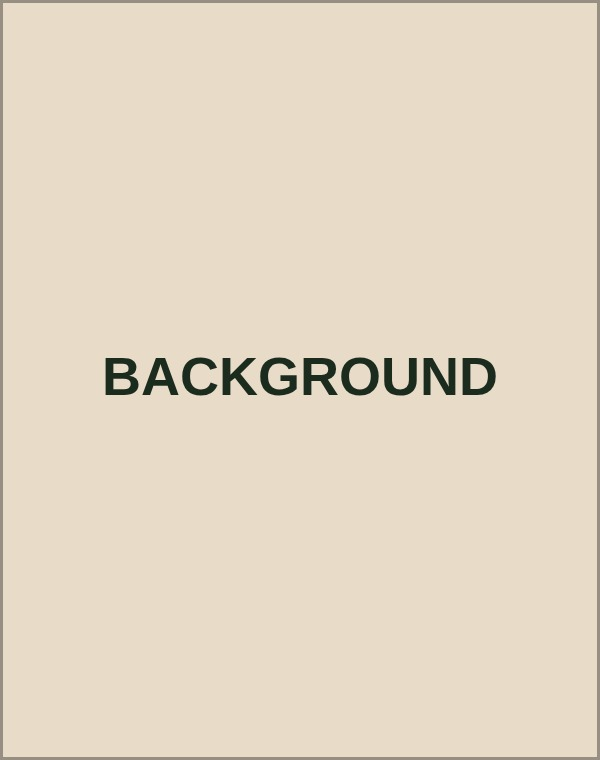
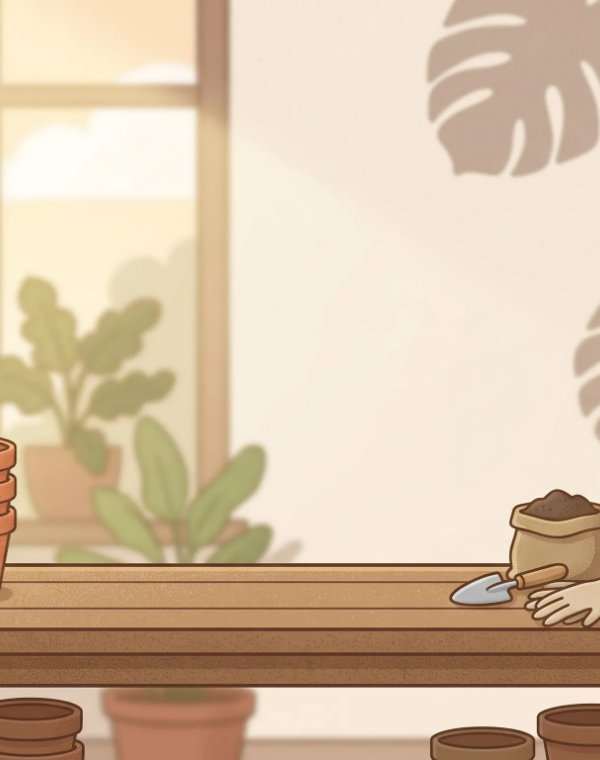
Wire in real Game 1 art assets + fix explosion-size selection bug
Real art uploaded by the user replaces the placeholder assets: 5
cactus growth stages, Pump/Bank buttons, coin/water HUD icons, and
the plant-shop background (cropped from the original landscape
composition to the game's portrait canvas, centered on the empty
tabletop area). Updated main.ts's asset imports to match the actual
uploaded filenames/extensions (cactus-stage-*.png and icon-*.png
instead of .webp, background.jpg instead of .webp).

Fixed a real bug this surfaced in BartGameEngine.pump(): on explosion,
advanceProgress() resets currentTrialPumps to 0 for the new trial
before the return statement's object literal reads
`this.currentTrialPumps`, so the returned currentPumps was always 0
regardless of the actual pump count that triggered the explosion.
This was silently dormant before (the old procedural explosion
drawing ignored the pump count entirely) but broke the new
stage-based small/big explosion selection outright -- every explosion
rendered "small". Fixed by capturing the value before advanceProgress()
runs. Verified with a headless 20-trial run: explosion pump counts now
vary realistically (1-31) instead of always reporting 0.

Two items still pending real art (kept on placeholders for now):
- explosion-small.webp / explosion-big.webp: both uploaded files
  turned out to be the cactus mandala pattern, not burst/explosion
  art (renamed to mandala-unused-*, not wired in since a burst effect
  showing a cactus mandala doesn't make sense). Regenerated a
[…]

diff --git a/src/main.ts b/src/main.ts
@@ -10,18 +10,18 @@ import type { Game4Payload, PggRoundLog } from './games/game4-pgg/types';
 import { calculateRadarProfile } from './analytics/pipeline';
 import type { CompleteAssessmentPayload, RadarChartOutput } from './analytics/pipeline';
 
-import cactusStage0Src from './assets/cactus-stage-0.webp';
-import cactusStage1Src from './assets/cactus-stage-1.webp';
-import cactusStage2Src from './assets/cactus-stage-2.webp';
-import cactusStage3Src from './assets/cactus-stage-3.webp';
-import cactusStage4Src from './assets/cactus-stage-4.webp';
+import cactusStage0Src from './assets/cactus-stage-0.png';
+import cactusStage1Src from './assets/cactus-stage-1.png';
+import cactusStage2Src from './assets/cactus-stage-2.png';
+import cactusStage3Src from './assets/cactus-stage-3.png';
+import cactusStage4Src from './assets/cactus-stage-4.png';
 import explosionSmallSrc from './assets/explosion-small.webp';
 import explosionBigSrc from './assets/explosion-big.webp';
 import btnPumpSrc from './assets/btn-pump.png';
 import btnBankSrc from './assets/btn-bank.png';
 import backgroundSrc from './assets/background.jpg';
-import iconCoinSrc from './assets/icon-coin.webp';
-import iconWaterSrc from './assets/icon-water.webp';
+import iconCoinSrc from './assets/icon-coin.png';
+import iconWaterSrc from './assets/icon-water.png';
 
 const assetSources = {
   cactusStage0: cactusStage0Src,

diff --git a/src/games/game1-bart/engine.ts b/src/games/game1-bart/engine.ts
@@ -116,16 +116,17 @@ export class BartGameEngine {
     const threshold = this.thresholds[this.currentTrialIndex - 1];
 
     if (this.currentTrialPumps >= threshold) {
+      const pumpsAtExplosion = this.currentTrialPumps;
       this.trialsLog.push({
         trialIndex: this.currentTrialIndex,
         explosionThreshold: threshold,
-        pumpsCompleted: this.currentTrialPumps,
+        pumpsCompleted: pumpsAtExplosion,
         isExploded: true,
         pointsEarned: 0,
         pumpTelemetry: [...this.currentTrialTelemetry],
       });
       this.advanceProgress();
-      return { isExploded: true, currentPumps: this.currentTrialPumps, unbankedPoints: 0 };
+      return { isExploded: true, currentPumps: pumpsAtExplosion, unbankedPoints: 0 };
     }
 
     return {
